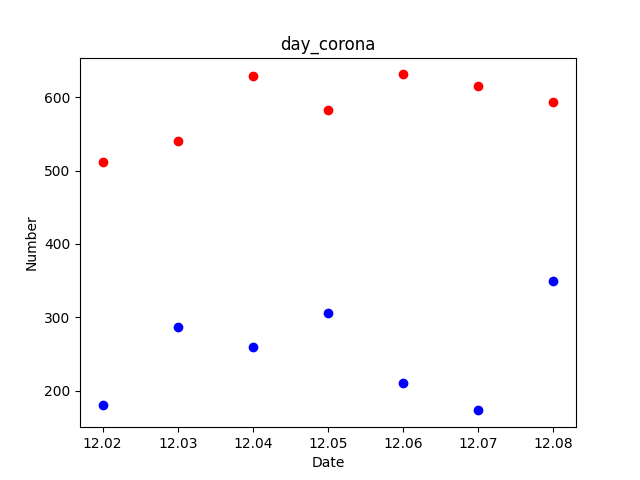
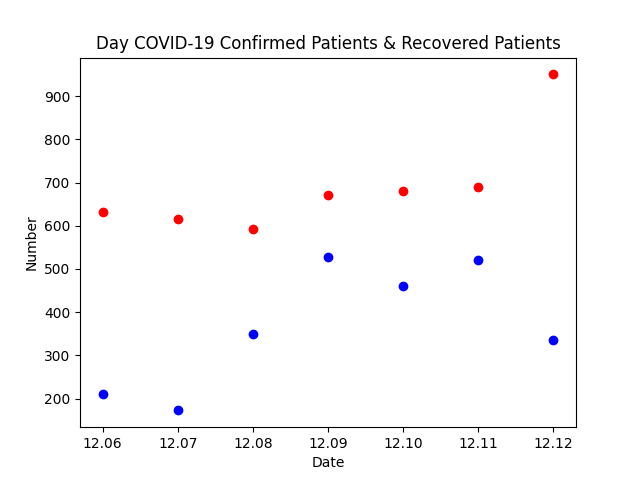
co

diff --git a/city_corona_image.py b/city_corona_image.py
@@ -1,0 +1,67 @@
+import os
+import pandas as pd 
+import numpy as np 
+import seaborn as sns
+import pymysql
+import plotly
+import plotly.express as px
+import matplotlib.pylab as plt
+import matplotlib.pyplot as plt
+from sqlalchemy import create_engine
+plt.rcParams['figure.figsize'] = [10, 6]
+
+
+
+
+conn = pymysql.Connect(host="localhost", user="root", password="wlsdud369", db="db")
+curs = conn.cursor()
+Confirmed_set = []
+sql = "select * from city_corona_db WHERE City_Name != 'total'"
+try:
+    curs.execute(sql)
+    results = curs.fetchall()
+    discresults = {}
+    ll = []
+    y_set = []
+    for row in results:
+        City_Name = row[0] #도시이름
+        Increasing_Total_Ctp = row[1] #전일대비확진환자 증감 합계
+        Increasing_Domestic_Occurrence_Ctp = row[2] #전일대비확진환자 증감 국내 발생
+        Increasing_Foreign_Inflow_Ctp = row[3] #전일대비확진환자 증감 해외유입
+        Confirmed_Patient = row[4] #확진환자
+        Quarantine = row[5] #확진환자 격리중
+        Isolation_Release = row[6] #확진환자 격리해제
+        Dead = row[7] #확진환자 사망자
+        Incident_rate = row[8] #확진환자 발생률
+        # print(row)
+        #비율
+        x = row[0] #도시이름
+        y = row[4] #확진환자 합계 
+        z = row[1] #확진확자 증감
+        confirmed_patient = row[4]
+        label = [row[0]]
+        
+        plt.barh(label, confirmed_patient)
+        # for i, v in enumerate(ll):
+        plt.text(row[4], row[0], row[4],                 # 좌표 (x축 = v, y축 = y[0]..y[1], 표시 = y[0]..y[1])
+            fontsize = 9, 
+            color='blue',
+            horizontalalignment='left',  # horizontalalignment (left, center, right)
+            verticalalignment='center')    # verticalalignment (top, center, bottom)
+
+
+        
+except:
+    print('ERROR!!')
+
+index = np.arange(len(ll))
+
+# plt.xticks(index, ll, fontsize=5)
+plt.title('Status of COVID-19 by city and province', fontsize=15)
+plt.xlabel('City', fontsize=8)
+plt.ylabel('Confirmed Patient', fontsize=8)
+# plt.xticks(index, label, fontsize=15)
+# print(type(x),type(y))
+plt.savefig("city_corona.png")
+plt.show()
+# plt.show()

diff --git a/inspection_corona_image.py b/inspection_corona_image.py
@@ -1,0 +1,53 @@
+import os
+import pandas as pd 
+import numpy as np 
+import seaborn as sns
+import pymysql
+import plotly
+import plotly.express as px
+import matplotlib.pylab as plt
+import matplotlib.pyplot as plt
+from sqlalchemy import create_engine
+
+
+conn = pymysql.Connect(host="localhost", user="root", password="wlsdud369", db="db")
+curs = conn.cursor()
+Confirmed_set = []
+sql = "select * from inspection_corona_db"
+try:
+    curs.execute(sql)
+    results = curs.fetchall()
+    discresults = {}
+    for row in results:
+        Cumulative_Inspection_Count = row[0] #누적검사수
+        Cumulative_Complete_Inspection = row[1] #누적검사완료수
+        Cumulative_Confirmed_Rate = row[2] #누적확진율
+        Testing_Count = row[3] #검사중
+        Testing_Count_Rate = row[4] #검사중 비율
+        Result_Positive = row[5] #결과양성
+        Result_Positive_Rate = row[6] #결과양성비율
+        Result_Negative = row[7] #결과음성
+        Result_Negative_Rate = row[8] #결과음성비율
+        print(row)
+        #비율
+        x = row[4]
+        y = row[6]
+        z = row[8]
+        ratio = [x,y,z]
+    
+
+       
+        
+except:
+    print('ERROR!!')
+
+
+# plt.legend(loc = 'right') 
+labels = ['Testing','Positive','Negative']
+# explode = [0.02, 0.02, 0.02]
+colors = ['#ffc000', '#d395d0', 'skyblue']
+wedgeprops={'width': 0.6, 'edgecolor': 'w', 'linewidth': 0.5}
+plt.pie(ratio, labels=labels, autopct='%.1f%%', counterclock=False, colors=colors, wedgeprops=wedgeprops)
+plt.title('Inspection COVID-19')
+plt.savefig("inspection_corona.png")
+plt.show()

diff --git a/day_corona_image_ing.py b/day_corona_image_ing.py
@@ -18,17 +18,18 @@ try:
     results = curs.fetchall()
     discresults = {}
     for row in results:
-        Date = row[0]
-        Confirmed = row[1]
+        NumberOrder = row[0]
+        Date = row[1]
+        Confirmed = row[2]
         # Confirmed_set.append(Confirmed)
-        Cure = row[2]
+        Cure = row[3]
         print(row)
-        x = row[0]
-        y = row[1]
-        z = row[2]
+        x = row[1]
+        y = row[2]
+        z = row[3]
         plt.plot(x,y,'or',label='Confirmed')
         plt.plot(x,z,'ob',label='Cure')
-        plt.title("day_corona")
+        plt.title("Day COVID-19 Confirmed Patients & Recovered Patients")
         plt.xlabel("Date")
         plt.ylabel("Number")
         plt.savefig("day_corona.png")
@@ -42,29 +43,3 @@ plt.show()
 
 
 
-
-# y = np.arange(Confirmed_set[0],Confirmed_set[6])
-# for row in results:
-#     x = row[0]
-#     y = row[1]
-#     plt.plot(x,y,'or')
-# plt.show()
-
-
-
-
-
-
-# df1 = pd.read_sql_table('day_corona_db',conn )
-# plt.style.use('ggplot')
-# df1.plot(title='확진자',figsize = (16,10))
-
-# plt.figure()
-# plt.plot(Date,Confirmed)
-# plt.grid('white')
-# plt.xlabel('날짜')
-# plt.ylabel('확진자')
-# plt.title('코로나19 일별 확진 환자 발생 및 완치 현황')
-# plt.xticks(Date)
-# plt.plot([5]*21,Confirmed, 'r')
-# plt.show()
